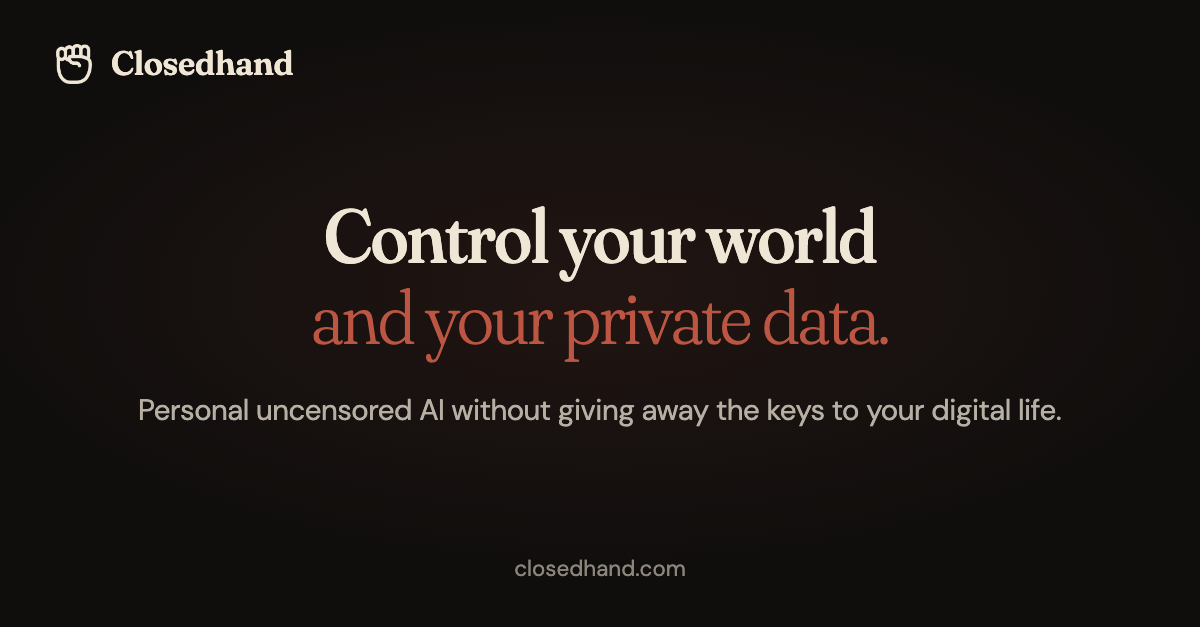
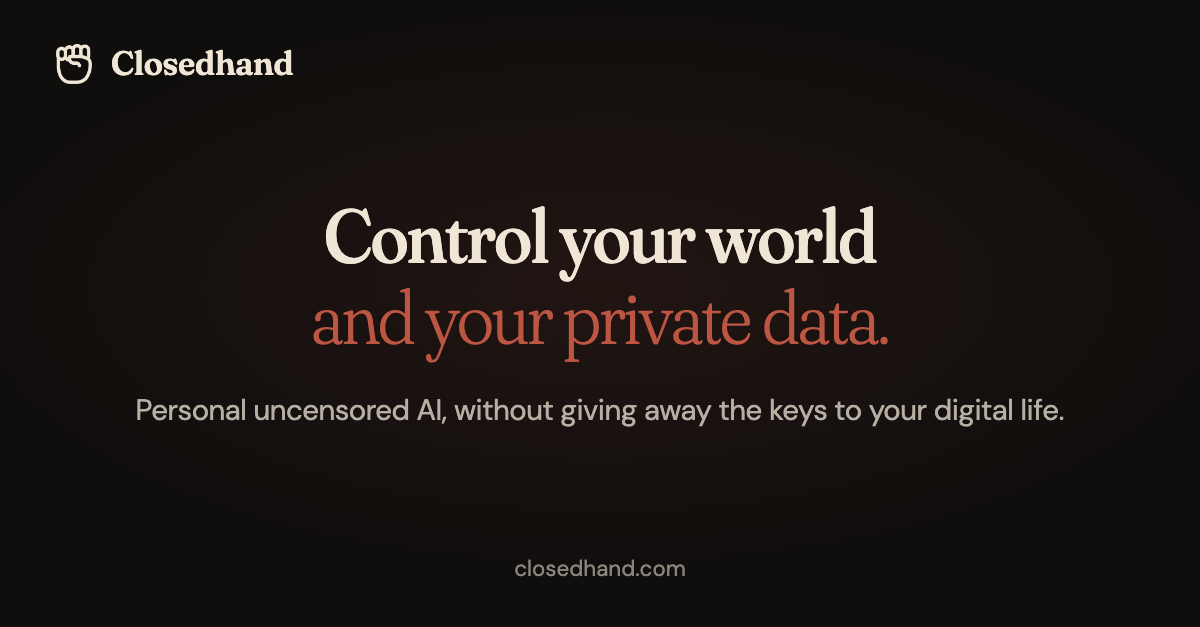
The home page's subheading, its descriptions, link preview and the README read: Personal uncensored AI, without giving away the keys to your digital life.

Changed region(s): [[0.0925, 0.6364, 0.8942, 0.697]]

diff --git a/closedhand-com/views/home.html b/closedhand-com/views/home.html
@@ -6,11 +6,11 @@
   <script src="/theme.js"></script><script src="/account-nav.js" defer></script><script src="/message-us.js" defer></script>
 <script src="/handheld.js"></script>
 <title>Closedhand</title>
-<meta name="description" content="Use personal uncensored AI without giving away the keys to your digital life. Your Closedhand assistant is open source and runs on a computer you control, with an LLM in a TEE (trusted execution environment), so nobody but you can read what you ask.">
+<meta name="description" content="Use personal uncensored AI, without giving away the keys to your digital life. Your Closedhand assistant is open source and runs on a computer you control, with an LLM in a TEE (trusted execution environment), so nobody but you can read what you ask.">
 <meta property="og:type" content="website">
 <meta property="og:site_name" content="Closedhand">
 <meta property="og:title" content="Closedhand: control your world and your private data">
-<meta property="og:description" content="Use personal uncensored AI without giving away the keys to your digital life. Your Closedhand assistant is open source and runs on a computer you control, with an LLM in a TEE (trusted execution environment), so nobody but you can read what you ask.">
+<meta property="og:description" content="Use personal uncensored AI, without giving away the keys to your digital life. Your Closedhand assistant is open source and runs on a computer you control, with an LLM in a TEE (trusted execution environment), so nobody but you can read what you ask.">
 <meta property="og:url" content="https://closedhand.com/">
 <meta property="og:image" content="https://closedhand.com/og.png">
 <meta property="og:image:width" content="1200">
@@ -893,7 +893,7 @@ body.chat-active .mon-area { display:none; }
   <div class="hero-area" id="heroSection">
     <div class="hero-space-top" style="flex:0.55"></div>
     <div class="hero-heading"><span class="hero-heading-first">Control your world</span><span class="hero-heading-more" id="heroMore">and your private data.</span></div>
-    <div class="hero-heading-sub">Personal uncensored AI without giving away the keys to your digital life.</div>
+    <div class="hero-heading-sub">Personal uncensored AI, without giving away the keys to your digital life.</div>
     <script>
       // The second sentence of the heading is measured at its natural width
       // once the fonts are in, so it can unfold to exactly that; then the hero

diff --git a/brand/og.html b/brand/og.html
@@ -26,7 +26,7 @@
 <body>
   <div class="brand"><img src="fist.png" alt=""><span>Closedhand</span></div>
   <div class="heading"><div>Control your world</div><div>and your private data.</div></div>
-  <div class="sub">Personal uncensored AI without giving away the keys to your digital life.</div>
+  <div class="sub">Personal uncensored AI, without giving away the keys to your digital life.</div>
   <div class="url">closedhand.com</div>
 </body>
 </html>

diff --git a/README.md b/README.md
@@ -1,6 +1,6 @@
 # Closedhand
 
-Personal uncensored AI without giving away the keys to your digital life.
+Personal uncensored AI, without giving away the keys to your digital life.
 
 Closedhand is a private AI assistant that runs on your own computer. Connect any app or service you use, from your mail and chats to your files, bank and work tools, and none of it ever needs to leave your computer. Talk to it in WhatsApp, Telegram or the web chat. Ask "What wine did Tom like?" and it answers "A 2019 Rioja. He said so on WhatsApp." It also speaks up before you ask: "Your flight's delayed. You'll miss your train."
 
